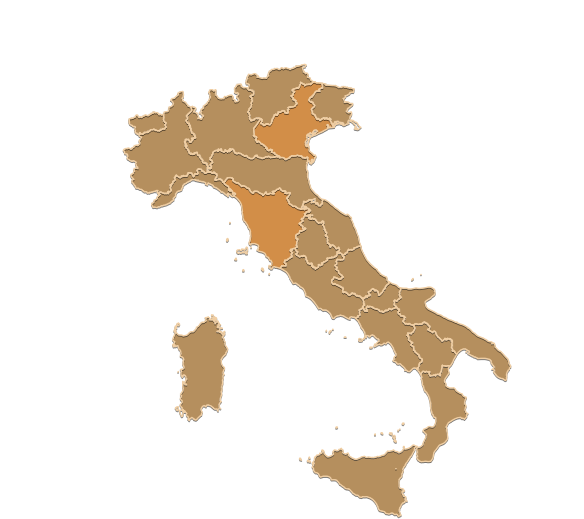
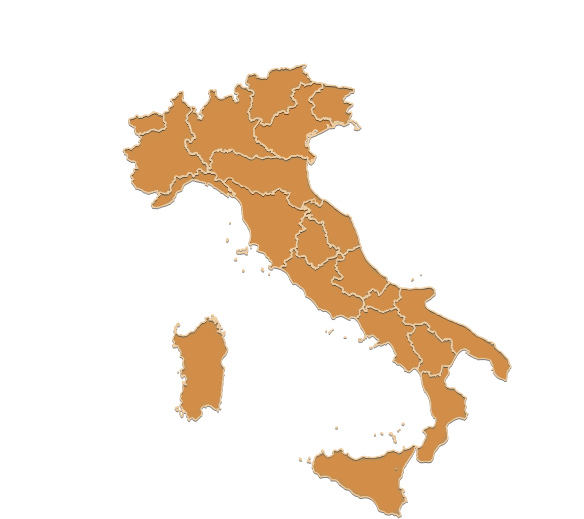
Доделал карту для просмотра

Changed region(s): [[0.2158, 0.1233, 0.863, 0.9865], [0.2774, 0.6166, 0.4007, 0.8015]]

diff --git a/portf/italy/index.html b/portf/italy/index.html
@@ -9,8 +9,48 @@
 	<div id="map">
 		<img src="images/img.png" alt="italyMap" id="italy" usemap="#italy">
 		<map name="italy">
-			<area shape="poly" alt="#" title="#" coords="129,119,132,119,135,118,136,114,137,113,139,117,145,115,148,115,150,112,155,111,158,113,162,115,164,117,166,124,164,125,165,127,158,131,152,127,148,131,144,131,142,133,140,132,139,134,135,131,136,126,131,124,127,118,129,120" href="#" target="#" /><!-- Created by Online Image Map Editor (http://www.maschek.hu/imagemap/index) -->
-			<area shape="poly" alt="" title="" coords="125,151,127,153,128,155,129,158,131,159,136,160,138,162,137,164,138,167,139,169,140,171,137,170,136,170,136,172,135,174,134,176,133,177,135,179,136,180,135,181,134,182,136,186,140,188,143,188,148,191,151,191,155,190,158,189,160,191,162,191,165,191,166,191,168,189,168,187,169,185,170,184,171,182,173,180,173,180,173,176,174,174,176,172,178,173,180,174,182,173,184,173,186,174,187,172,188,171,190,172,192,172,196,173,198,173,196,170,195,168,197,168,199,167,201,168,202,169,204,170,206,171,207,168,207,167,206,165,201,164,199,162,198,159,195,155,192,155,186,153,185,150,184,147,182,145,182,142,183,139,185,136,187,135,190,137,190,139,193,136,191,133,189,131,188,127,186,125,185,121,183,119,186,118,185,115,187,112,189,110,190,108,186,106,184,104,181,102,180,98,180,96,179,94,177,97,175,100,172,102,174,103,174,106,172,108,171,109,169,112,166,115,163,117,167,124,167,125,168,126,167,128,166,130,163,133,161,132,158,132,154,133,149,133,146,135,142,136,141,136,142,139,143,139,141,141,140,142,141,145,140,146,138,148,136,146,134,148,132,149,133,151,127,150" href="#" target="" /><!-- Created by Online Image Map Editor (http://www.maschek.hu/imagemap/index) -->
+
+			<area shape="poly" alt="" title="" coords="131,120,131,124,134,125,135,126,136,126,137,127,137,128,137,129,136,131,137,132,138,132,140,132,141,132,142,133,145,131,148,130,149,129,150,128,151,128,153,128,154,128,158,130,164,128,165,127,164,126,163,124,165,124,163,122,162,119,163,117,160,117,158,116,157,115,155,115,152,116,150,117,148,118,147,117,143,119,137,119,137,118,135,120" href="#" target="" />
+
+			<area shape="poly" alt="" title="" coords="141,136,143,139,141,141,141,145,138,147,136,147,134,150,132,151,130,151,128,150,125,152,127,154,128,154,129,159,132,159,137,161,137,163,137,164,138,166,138,169,139,170,136,170,135,173,133,176,136,180,134,181,134,183,138,187,142,188,147,191,149,192,157,189,159,190,161,190,165,193,166,191,169,190,170,187,167,184,170,184,171,182,173,180,174,175,176,174,178,174,180,176,185,174,187,174,187,172,193,172,194,174,196,173,197,171,197,169,201,168,203,170,206,172,206,168,205,165,202,165,195,155,191,157,183,147,183,139,185,138,187,137,189,137,191,140,191,137,194,137,192,135,189,131,187,125,185,121,186,118,185,114,191,111,189,108,185,103,182,102,181,99,181,97,183,96,182,94,180,94,179,96,177,98,175,100,173,99,175,104,175,106,172,109,170,109,171,111,170,112,168,114,166,113,165,116,166,118,166,121,168,122,168,125,168,127,167,129,165,131,160,132,158,133,154,131,153,132,149,134" href="#" target="" />
+
+			<area shape="poly" alt="" title="" coords="192,108,193,113,188,116,190,119,188,121,192,124,193,130,194,133,196,134,197,138,196,140,194,140,192,144,189,144,188,142,187,141,186,143,191,152,195,151,197,151,202,156,204,160,206,162,207,163,209,164,210,161,208,160,208,156,213,150,220,148,223,148,224,151,225,149,226,150,229,148,234,148,236,152,242,152,245,155,248,155,252,158,256,154,259,154,259,156,263,157,265,156,268,155,273,156,275,156,270,153,268,151,263,147,260,145,258,143,256,144,254,140,254,138,251,136,252,128,258,121,259,120,255,121,250,123,249,120,248,117,248,116,246,113,247,110,248,108,249,106,250,104,249,103,250,100,248,97,250,94,252,94,252,92,248,93,246,90,243,89,239,87,237,88,236,90,237,92,239,92,240,96,239,97,240,100,240,102,237,104,232,100,231,97,227,98,224,101,220,100,215,97,214,92,211,92,212,98,210,102,208,105,205,107,204,110,202,112,204,116,204,118,202,120,199,121,197,120,196,117,197,116,193,112" href="#" target="" />
+
+			<area shape="poly" alt="" title="" coords="249,76,247,82,249,84,251,85,250,88,253,90,255,93,255,97,252,98,253,102,252,105,252,108,250,113,251,118,256,116,261,116,263,117,263,121,265,122,268,123,272,118,273,113,275,112,281,110,285,109,286,111,288,106,292,105,294,105,294,101,290,100,289,97,292,92,291,88,297,86,300,82,300,81,304,82,309,82,311,81,308,79,306,78,306,75,301,72,300,68,294,69,292,71,286,70,281,71,275,69,271,72,270,73,269,76,269,79,266,81,257,79,255,76" href="#" target="" />
+
+			<area shape="poly" alt="" title="" coords="324,85,324,89,321,90,321,92,316,93,313,98,311,99,311,100,314,103,316,104,315,107,313,110,315,114,317,116,319,118,324,117,328,117,332,117,333,119,331,121,333,122,334,123,335,121,337,119,340,120,343,122,345,123,347,123,348,118,350,113,347,114,345,111,347,108,351,105,349,104,346,102,344,104,342,98,345,95,349,93,352,90,347,90,343,89,339,89,335,87,325,87,324,85" href="#" target="" />
+
+			<area shape="poly" alt="" title="" coords="260,121,255,129,256,135,258,138,259,139,262,142,264,143,266,145,269,149,272,148,273,149,274,152,277,153,279,155,283,157,287,158,291,154,295,154,302,155,304,157,307,156,309,158,309,161,311,159,314,158,312,155,309,154,306,150,305,147,304,139,306,137,306,134,312,131,316,128,319,131,318,133,327,128,326,124,328,124,330,127,332,126,329,121,323,120,319,122,313,115,310,110,313,105,307,101,309,96,317,90,319,88,322,88,320,85,316,85,314,83,311,86,306,86,305,88,303,85,300,89,299,90,296,91,296,93,294,95,295,97,298,103,297,107,295,109,289,109,290,112,289,115,284,115,283,113,279,114,278,117,276,117,271,127,269,127,268,126,264,128,260,125" href="#" target="" />
+
+			<area shape="poly" alt="" title="" coords="210,170,212,172,215,172,217,173,219,174,217,179,221,178,224,181,228,176,234,177,235,181,241,184,248,187,252,190,259,190,261,193,264,193,266,191,268,192,280,187,284,189,287,191,292,193,289,199,292,204,300,208,303,200,306,201,314,198,315,198,318,203,320,204,321,200,310,191,305,177,305,169,307,160,302,160,300,158,296,157,292,158,289,161,286,162,283,159,278,159,272,160,268,159,263,160,256,158,252,161,245,158,238,155,236,156,232,152,226,154,220,153,214,153,212,158,214,163,213,165,213,169" href="#" target="" />
+
+			<area shape="poly" alt="" title="" coords="153,205,156,207,164,204,172,200,173,197,175,196,176,192,180,190,181,189,182,184,192,179,201,180,206,182,207,184,208,182,214,184,220,189,226,193,228,193,232,196,231,192,229,192,227,188,220,182,214,183,213,179,215,176,212,174,208,174,204,175,202,172,200,171,198,170,200,174,199,175,196,175,195,178,191,175,190,175,188,177,183,178,181,180,177,178,177,181,174,184,171,187,173,191,168,196,162,195" href="#" target="" />
+
+			<area shape="poly" alt="" title="" coords="225,183,232,188,234,192,237,195,235,196,243,204,243,210,244,219,249,226,252,232,251,243,257,243,259,245,260,250,266,253,269,257,273,263,272,267,279,267,281,264,285,265,283,259,291,256,290,253,288,250,291,248,296,247,295,240,294,235,299,232,299,230,303,230,301,227,297,224,301,221,300,219,303,217,306,211,302,211,298,211,292,208,287,205,285,200,287,195,283,195,283,193,278,190,276,193,275,196,266,196,263,198,261,196,256,192,254,195,251,194,248,190,243,188,242,189,237,185,232,183,231,180,228,180,227,180" href="#" target="" />
+
+			<area shape="poly" alt="" title="" coords="304,204,310,202,311,205,315,205,319,208,324,205,323,201,342,216,348,217,359,245,353,247,352,250,348,248,346,251,343,254,340,250,341,247,338,245,336,246,333,243,331,244,328,241,329,236,327,234,326,229,326,225,325,222,321,219,320,222,317,219,315,217,312,215,313,215,308,214,312,212,312,209,308,207" href="#" target="" />
+
+			<area shape="poly" alt="" title="" coords="305,217,304,220,305,222,302,224,306,228,307,229,300,233,299,235,297,236,298,238,300,239,298,243,299,248,296,249,298,251,299,254,304,254,307,256,307,259,309,263,312,263,314,265,317,267,318,265,318,265,321,264,321,261,326,259,326,256,335,254,336,252,338,249,335,250,333,247,330,250,327,246,326,243,326,238,323,235,325,234,322,229,321,225,318,225,315,221,309,221" href="#" target="" />
+
+			<area shape="poly" alt="" title="" coords="283,268,288,271,294,282,298,283,301,286,305,289,308,296,312,299,320,308,323,309,328,310,332,314,333,316,338,315,342,314,348,318,352,315,356,317,358,315,358,310,362,307,362,304,361,301,359,298,356,298,354,296,350,297,348,297,345,294,343,295,341,289,336,287,332,285,330,282,331,279,333,277,337,277,341,277,337,274,337,272,333,270,335,268,333,266,336,264,334,262,337,259,342,259,342,257,340,254,339,255,337,257,334,260,329,260,328,262,323,264,323,267,315,271,310,267,310,266,304,262,304,259,299,259,295,256,295,254,296,252,294,250,293,253,293,258,291,260,287,263,286,262,288,265,287,267" href="#" target="" />
+
+			<area shape="poly" alt="" title="" coords="345,255,346,260,343,262,337,262,338,265,336,266,339,270,341,272,343,275,344,279,342,281,337,281,335,279,334,281,338,284,343,286,345,289,344,291,349,293,353,291,357,294,360,294,363,297,368,295,367,291,372,288,378,289,380,292,382,290,387,283,386,281,384,279,375,272,369,267,360,249,354,251,349,251,349,254" href="#" target="" />
+
+			<area shape="poly" alt="" title="" coords="365,300,366,304,366,305,365,306,366,309,367,305,374,306,375,308,380,310,383,310,387,308,391,307,395,307,393,304,393,302,395,299,397,300,399,297,398,291,399,290,395,286,391,286,390,284,388,287,386,291,381,296,378,297,376,292,374,292,373,291,372,293,371,293,372,295,370,298" href="#" target="#" />
+
+			<area shape="poly" alt="" title="" coords="360,311,361,315,361,317,359,317,359,318,357,318,362,324,362,328,366,333,366,335,370,335,374,334,380,340,378,344,388,341,394,345,398,356,395,358,397,361,401,363,407,369,410,371,415,366,418,367,417,364,421,361,420,359,416,355,411,350,411,348,409,346,410,344,406,341,406,337,407,333,410,332,413,330,414,327,409,327,404,325,401,322,403,319,403,318,400,318,398,315,396,312,398,310,395,309,391,312,390,311,385,314,383,314,377,311,373,310,371,309,368,309,369,313,365,313,363,310" href="#" target="" />
+
+			<area shape="poly" alt="" title="" coords="402,289,399,294,402,297,402,299,400,300,398,302,398,303,395,303,396,306,398,307,400,310,399,313,401,315,405,316,406,318,406,319,405,321,406,323,410,323,412,323,415,323,421,323,423,321,428,323,432,328,430,330,434,331,437,333,439,336,443,339,444,338,447,338,451,338,453,341,453,349,455,350,457,353,461,349,463,348,465,348,470,350,471,354,475,356,479,358,488,358,492,359,492,363,495,366,496,369,495,372,499,377,502,378,506,379,505,373,509,367,507,365,507,361,496,350,494,348,490,345,487,343,478,338,468,330,462,327,458,325,440,318,427,310,424,306,424,302,433,295,434,293,434,291,431,289,426,289,424,291,413,290,409,291,407,290" href="#" target="" />
+
+			<area shape="poly" alt="" title="" coords="415,325,417,330,415,332,413,334,412,336,409,335,410,339,413,341,414,344,413,344,414,346,416,350,420,354,422,358,423,359,422,363,421,365,420,367,420,371,421,373,423,370,431,371,430,373,431,375,439,373,441,367,442,364,450,364,455,355,454,353,452,353,451,346,451,341,447,341,447,342,442,343,436,337,434,333,433,335,426,331,426,329,428,327,425,325,422,326" href="#" target="" />
+
+			<area shape="poly" alt="" title="" coords="423,373,423,376,424,379,423,379,424,387,427,391,430,395,432,403,432,409,434,414,437,419,436,427,431,430,429,429,425,432,427,434,427,435,424,445,418,449,419,454,419,459,422,461,430,461,432,457,432,452,438,445,444,441,446,439,445,429,446,423,458,417,462,417,465,418,466,414,463,411,464,406,464,401,464,399,460,395,456,394,453,390,449,390,444,388,443,381,446,374,448,373,448,368,444,368,442,371,443,373,442,375,441,379,438,377,435,379,433,377,430,379,428,374" href="#" target="" />
+
+			<area shape="poly" alt="" title="" coords="317,457,316,462,314,464,315,466,313,467,316,471,318,472,321,475,328,475,332,479,336,479,340,482,344,486,346,487,349,488,354,491,356,494,362,496,368,495,373,498,377,503,380,508,380,510,386,512,388,514,392,512,395,513,399,514,397,512,399,505,404,501,403,498,400,492,402,491,401,490,399,490,397,486,397,480,401,476,401,472,402,468,413,450,414,447,411,449,408,451,405,451,402,454,399,454,393,452,388,453,386,456,383,458,378,458,373,460,366,459,365,458,364,458,359,460,355,461,347,458,347,456,341,454,341,451,339,451,338,453,335,452,335,453,335,456,331,459,328,459,323,454,321,456" href="#" target="" />
+
+			<area shape="poly" alt="" title="" coords="176,335,178,337,182,337,185,338,189,337,191,334,194,334,198,329,203,324,206,323,207,321,207,319,209,320,209,322,213,322,214,325,217,324,216,328,219,329,218,330,215,331,216,334,221,336,223,343,226,351,219,359,221,368,223,370,221,382,220,388,219,396,219,401,218,404,218,408,214,407,209,403,205,404,202,405,201,406,199,409,200,413,200,416,196,418,193,418,190,418,188,415,188,411,182,405,184,403,183,399,183,396,185,392,184,387,187,386,187,383,189,380,187,375,184,373,183,375,182,371,185,370,185,365,184,360,185,358,182,356,183,353,180,348,178,344,175,344,174,340" href="#" target="" />
+
+			<area shape="poly" alt="" title="" coords="237,252,239,251,240,252,244,250,245,251,247,253,245,253,240,254,236,252" href="#" target="" />
 		</map>
 	</div>
 <script src="http://ajax.googleapis.com/ajax/libs/jquery/1.11.1/jquery.min.js"></script>

diff --git a/portf/italy/js/script.js b/portf/italy/js/script.js
@@ -1,10 +1,10 @@
 $('#italy').mapster({
       render_highlight: {
-          fillColor: 'dec098',
+          fillColor: 'b58f5e',
           stroke: false
       },
       render_select: {
-          fillColor: 'd28e48',
+          fillColor: 'b58f5e',
           stroke: false
       },
       fadeInterval: 50

diff --git a/portf/italy/css/build/style.css b/portf/italy/css/build/style.css
@@ -46,3 +46,7 @@ table {
 	border-collapse: collapse;
 	border-spacing: 0;
 }
+#map {
+	margin: 100px auto;
+	width: 900px;
+}
